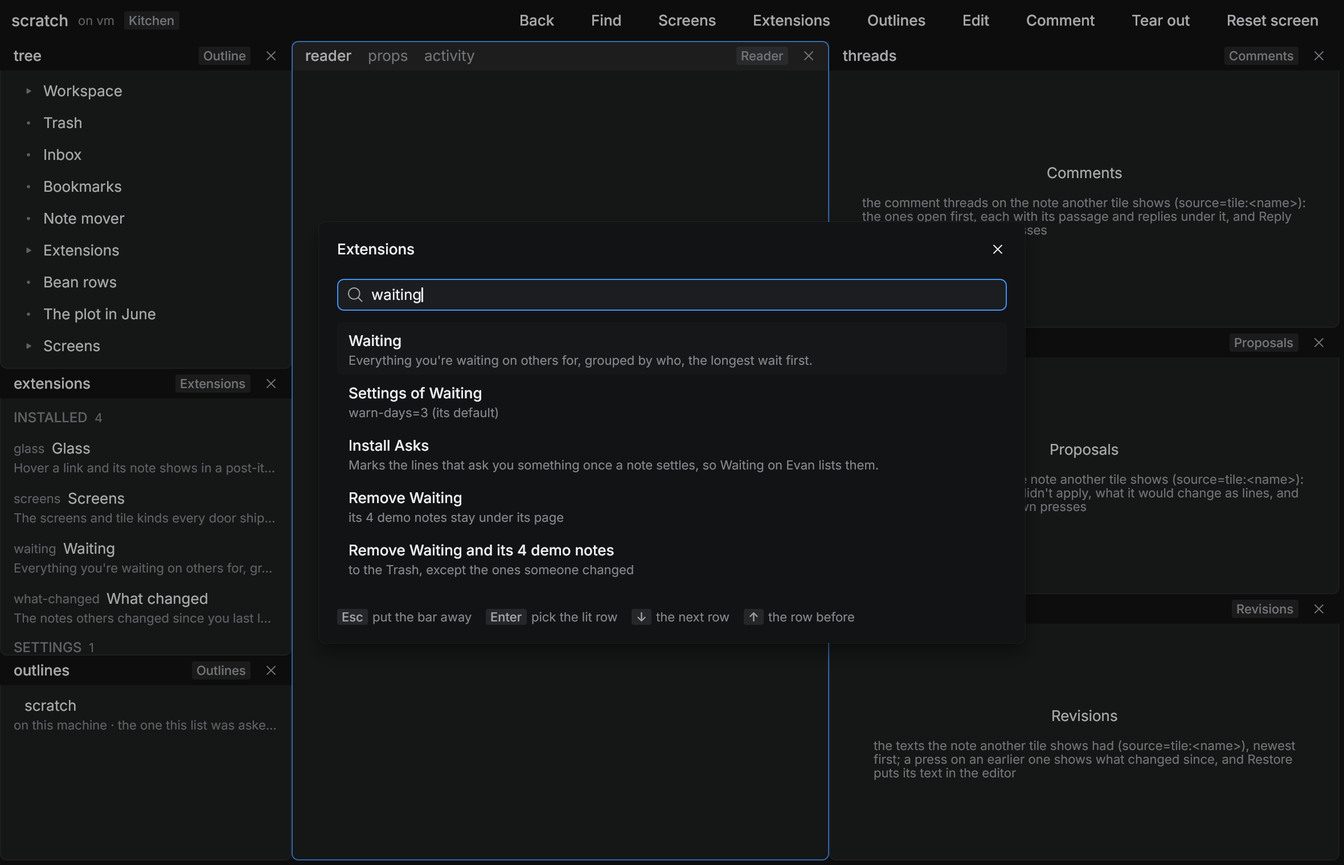
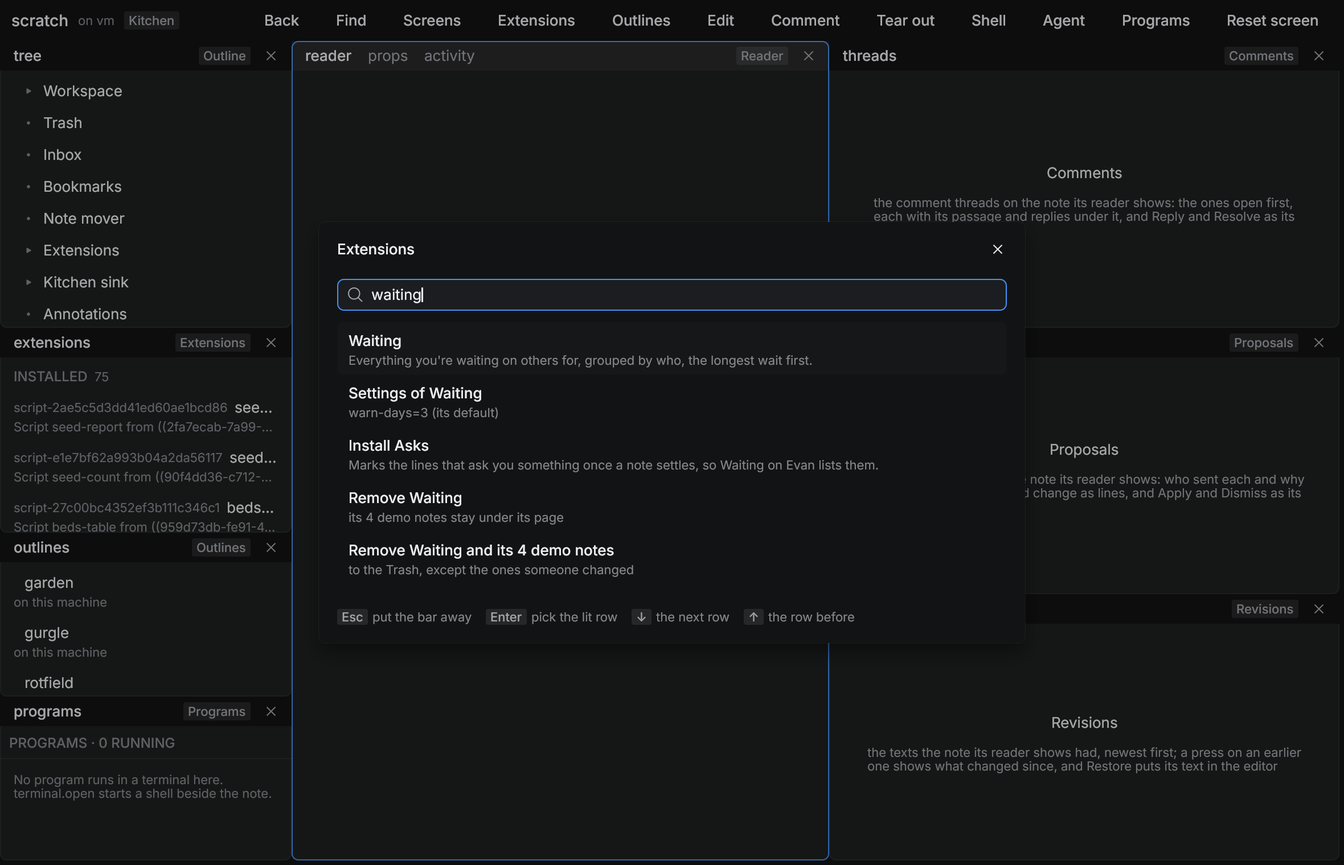
native H3: one owner each, the docs, and the pictures an empty tile is in
one_owner.rs holds what H3 added to one place each. DESIGN.md, PROBES.md
(a Mac's title bar: read from Rune, run on a headless runtime, not on a
Mac) and the README say it. The README's dark pictures that show an empty
tile are shot again (caret, table, extensions, settings), and a headings
scene shows a styled heading drawn without its properties beside the
Properties tile.

Claude-Session: https://claude.ai/code/session_01YahWSsU53UQFjh3cbq4VFn

diff --git a/packages/native/scenes/parts.seed.ts b/packages/native/scenes/parts.seed.ts
@@ -1,4 +1,5 @@
-// The made-up note the `parts` scene opens: figures, a box, a live list and two buttons, written into a scratch
+// The made-up notes the `parts`, `links`, `draft`, `settings` and `headings` scenes open, the first with figures, a
+// box, a live list and two buttons, written into a scratch
 // outline (never a real one: the socket is a scratch host's, named outright).
 //   bun scenes/parts.seed.ts <a scratch host's socket> <outline>
 import { OutlinerClient } from "../../outliner/src/client";
@@ -8,6 +9,22 @@ if (!socket || !outline) throw new Error("usage: bun scenes/parts.seed.ts <a scr
 const client = new OutlinerClient(socket, 20_000);
 const create = (text: string, parentId?: string) => client.request<{ id: string }>({ action: "create", outline, text, author: "user", ...(parentId ? { parentId } : {}) });
 
+const HEADINGS = [
+  "Hazel fence plan [type::plan] [season::spring] [plot::north] [soil::clay] [water::butt] [keeper::Ada] [paths::bark] [fence::hazel]",
+  "Fence style [heading-style::plot] [heading-pattern::dots] [heading-rows::2]",
+  "",
+  "## Beds [heading::plot]",
+  "Four beds, the cold frame first. The peas are due [due::friday].",
+  "",
+  "## Sowing [heading::plot] [heading-tone::amber]",
+  "- Peas in March",
+  "- Beans in May",
+  "",
+  "--- [rule::fade]",
+  "",
+  "### Paths [who::Bram]",
+  "Bark on the long path, grass between the beds.",
+];
 const plan = await create([
   "Bed plan [type::plan] [season::spring]",
   "Four beds this year. The cold frame goes in first.",
@@ -65,5 +82,9 @@ const sent = (days: number) => new Date(Date.now() - days * 86_400_000).toISOStr
 for (const [title, who, days] of [["Jars for the cellar", "Ada: which shelf do the jars go on?", 5], ["Seed swap", "Ada: are the broad beans still spare?", 2], ["The loan of the rotavator", "Bram: is Saturday still good?", 1]] as const) {
   await create(`${title} [type::outbox-item] [outbox::waiting] [waiting-on::${who}] [sent::${sent(days)}]`);
 }
+// The note the `headings` scene opens: headings and a rule that name a style, and a line that declares one. A page
+// that draws no style still leaves out the properties that style a line (the service's prose is without them); what
+// says something stays, here and in the Properties tile beside the reader.
+await create(HEADINGS.join("\n"));
 console.log(plan.id);
 process.exit(0);

diff --git a/packages/native/src/tests/one_owner.rs b/packages/native/src/tests/one_owner.rs
@@ -710,3 +710,26 @@ fn a_terminal_s_deciders_each_have_one_place() {
     let store = sources().into_iter().find(|(path, _)| path == "store.rs").expect("store.rs").1;
     assert!(store.contains("programs: Programs,"), "the run's programs are the hub's, so a tile torn into another window keeps its program");
 }
+
+/// Wave H3, small things: each has one place.
+/// - How long something said stays up is one port of outline-core's rule (`actions::stays`), and the status line
+///   goes by the clock in one place (`App::fade`); a notice is put away by the dispatcher alone, beside the person's
+///   own dismiss.
+/// - What the window's own buttons take of the toolbar is asked of Rune once, in the shell, and the frame a window
+///   asks for is said once.
+/// - What an empty tile offers to do next is worded by the action rows through one builder (`tiles::way`).
+/// - Which decoded pictures are kept is the picture cache's own.
+#[test]
+fn what_h3_added_has_one_owner_each() {
+    none("the time something said stays up written outside `actions::stays`", ["30_000", "from_millis(4000", "from_secs(4)"].iter().flat_map(|number| strays(number, |path| path == "actions/app.rs")).collect());
+    none("what the status line says taken away outside `App::fade`", strays("agent_said = None", |path| path == "actions/app.rs"));
+    none("since when something has been said kept outside the App", strays("st.heard.", |path| path == "actions/app.rs"));
+    none("a read notice put away outside the dispatcher", strays(".put_away(", |path| path == "actions/mod.rs" || path == "actions/app.rs"));
+    none("the window's own buttons asked about outside the shell", strays("titlebar_inset()", |path| path == "shell.rs"));
+    none("a window's frame said outside `shell::frame`", strays("Chrome", |path| path == "shell.rs"));
+    let framed: Vec<String> = strays(".chrome(", |_| false).into_iter().map(|found| found.split(':').next().unwrap_or_default().to_string()).collect();
+    assert_eq!(framed, ["main.rs", "shell.rs"], "every window of the run is given the one frame: the first, and one torn out");
+    // What to do next in an empty tile is a line its action's row words, built by one builder: no drawer keys one.
+    none("a way to fill an empty tile built by a drawer: `tiles::way` builds it from the action's row", strays("empty/find", |_| false));
+    none("which pictures are kept decided outside the picture cache", ["pictures.held", ".behind"].iter().flat_map(|word| strays(word, |path| path == "tiles/picture.rs")).collect());
+}

diff --git a/packages/native/README.md b/packages/native/README.md
@@ -19,6 +19,7 @@ ships no screen and no tile kind of its own: the ones every door ships are one e
 ![A screen saved as a note with keys of its own: the list of the keys beside its reader puts that screen's first, dark](docs/screenkeys-dark.png)
 ![The library: the components under their groups, one picked with its own example as written and as drawn, dark](docs/library-dark.png)
 
+![A note whose headings and rule name a style: drawn without the properties that style a line, the ones that say something kept; its properties beside it, a table whose rows scroll under a line below its column header, dark](docs/headings-dark.png)
 ![A note with a query-backed component, dark](docs/note-dark.png)
 ![Live figures answered by the service, dark](docs/figures-dark.png)
 ![A query with the facets its matches carry, dark](docs/query-dark.png)
@@ -54,7 +55,7 @@ Linux builds need `libxkbcommon-dev` and `libwayland-dev`; a machine with no GPU
 | Do | How |
 |---|---|
 | Walk the outline | The tree tile: a press opens a note, a press on the open note folds or unfolds it. A row has a fold's mark when notes are under it, and only then: a note with nothing under it but comments or an edit proposed beside it has none (they are in the Comments and Proposals tiles) |
-| Start from nothing | A reader shows the note it was told and no other. One told none is empty: it says what it is, in its kind's own words, with Find and New note under them |
+| Start from nothing | A reader shows the note it was told and no other. One told none is empty: it says what it is, in its kind's own words (written for the person at the tile), and what to do next under them, a line each: Find and New note as buttons, each with its key and what the key does, read from the action's own row |
 | Open a screen | The bar's Screens (`bar.open scope=screens`, the toolbar's Screens): the desk, the navigator, the board, last callers, who's online, the keys, the library, the kitchen sink (this window's parts on one screen), and every screen note the outline has. A row opens one (`screen.open name=`; `target=` is what it opens on, where its spec takes one) |
 | Read a board | The board's lanes: the matches of a question, a lane a value of the property the screen names. `list.group by=<any property>` groups them by another, `list.layout layout=rows\|table\|lanes` arranges them another way (a table whose tile names no `columns` shows the title and the properties its rows carry), `list.sort by=<any property>` orders them; a card pressed opens beside |
 | Narrow by what notes carry | The navigator: a facet's row, or a chip on any list, narrows that list's question (`facets.set key= value=`); the Matches tile beside it lists what is left, and the chip that says what it is narrowed by takes it back |
@@ -90,6 +91,7 @@ Linux builds need `libxkbcommon-dev` and `libwayland-dev`; a machine with no GPU
 | Jump between agents | The bar's Programs (`bar.open scope=programs`, the kitchen's Programs and its tile): the programs this window runs, in a tile or not, each with what it reports of itself; a row takes the keys to its program (`terminal.jump key=`), in a tile beside the note when it has none. What herdr-core runs that this window never started is listed after them in the tile, and is never ended, typed into or attached from here |
 | Scroll, paste and copy in a terminal | `shift+pageup` and `shift+pagedown` or the wheel move through what scrolled off (`terminal.scroll`); `mod+shift+v` pastes the clipboard as a paste (`terminal.paste`); words are selected with the mouse, as in a note, and copied with ⌘C on a Mac (elsewhere step out with `ctrl+]` first: Ctrl+C in a program is the program's) |
 | See it change | An edit from the door, an agent or another machine redraws what's open |
+| Read what an agent did, and move on | The toolbar's status line names the agent and the act, or why it was refused, for as long as it takes to read (4 s at least, about 14 characters a second, 30 s at most: the door's rule for its status bar), then it goes. A refusal of your own is the notice under the toolbar: it stays until you have had time to read it and do something else, or dismiss it; the clock alone takes no notice away |
 
 **The keys are the actions' own.** Each action's row says its chords (`src/actions/*.rs`), and the key table, the
 keycap on a button, the bar's rows and `actions` over the control socket all read the row. The defaults:
@@ -265,6 +267,10 @@ src/ (Rust, Rune)                                      the outline host
   `tiles.view` and builds the primitive it answers through the one registry, so a list in it is the list
   drawer's. Its settings are a form drawn from its schema as `extensions.list` says it; what is typed is sent as
   the value its field's type says, and the service checks it. Nothing in the window names an extension.
+- **A property that styles a line is no content.** A heading's `[heading::band]` and its own fields, a line that
+  declares a style, a rule's `[rule::fade]` and any `style.*` are left out of the prose the service serves
+  (outline-core's `unstyledLines`, by the readers the door's own reader asks); a property that says something
+  stays the note's words. The window reads no Blockdown to do it.
 - **The service answers a note whole** (`notes.page`, outline-core's `note-page.ts`): title, chips, properties, the
   body as parts, and the notes above, under and linking to it. It walks the note as a published page does (one
   finder says which component a line starts, outline-core's `componentAt`) and asks the same questions; where a
@@ -323,8 +329,17 @@ src/ (Rust, Rune)                                      the outline host
     say so on their rows, and the dispatcher refuses an agent. `draft.patch` is the way in for everybody else.
 - **Pictures are parts too.** The page names each picture (its path, or an svg fence's own text) and how the note
   lays it out; the window reads a file's bytes with `media.read`, hands them to Rune's image cache to decode off
-  the UI thread, and keeps only those of the pages its readers show. One the host can't read says so, in the host's words, where it
-  would be.
+  the UI thread, and keeps those of the pages its readers show, with the last few they showed still decoded behind
+  them (eight at most, and no more than 128 MiB of pixels: a note come back to draws its photos at once). One the
+  host can't read says so, in the host's words, where it would be.
+- **What is said goes when it has been read** (`App::fade`, `App::read`; `actions::stays` is outline-core's
+  `staysMs` by port, the rule the door's status bar keeps a message by). The status line is news and goes by the
+  clock. A notice is the person's: a problem's goes with their next act once it has been up long enough to read,
+  unless that act says something in its place.
+- **The toolbar starts past the window's own buttons** where they sit over it (`shell::toolbar_lead`, from Rune's
+  `Cx::titlebar_inset`): on a Mac the content fills the window under a clear title bar, and the outline's name is
+  drawn after the traffic lights. In full screen, and on every other platform, it starts at the edge. Each window's
+  frame is said once (`shell::frame`).
 - **What is about a note is a list that follows a reader** (`extensions/screens`: the `threads`, `proposals` and
   `revisions` kinds, each the list drawer over a producer of `lists.read`, with `source: tile:<reader>` and
   `subject: follows`, as the links tile has). The window has no code for any of them. The desk holds the three as
@@ -361,7 +376,10 @@ src/ (Rust, Rune)                                      the outline host
 - **A reader shows the note it was told, and no other** (`App::note_of`). One told none shows none: the layout's
   rules read that (`Facts.showing`) and the tile draws that, so a close's heir and an open's landing replace
   nothing that was on screen. What an empty tile says is its kind's own row (`tiles::waiting`: the name and the
-  description the service serves for the kind), for a reader and for a list about a note nobody shows alike; a
+  description the service serves for the kind, which is written for the person at the tile; how a screen writes a
+  tile of the kind is the extension's page to say), for a reader and for a list about a note nobody shows alike,
+  and what to do next is a line an act (`tiles::way`: the button its action's row labels, the key the table binds
+  and what that key does, in the row's words); a
   window opens on its screen with its reader empty, and the arrangement kept between runs brings back what each
   reader showed.
 - **The keys screen has no table of its own.** The window hands `lists.read from=actions` its action rows (where a
@@ -515,6 +533,9 @@ model names no Rune type). `owners.rs`, `sweep2.rs` and `sweep3.rs` hold the sam
 reader's note goes to its heir, Return under a row that would write nothing, a refusal names an action here;
 F2's are in `lists.rs` and `shell.rs`: a fold's mark only on a row the service says opens onto notes, and a reader
 told no note drawn as empty in its kind's own words), and
+`small.rs` has what the first run by hand met (wave H3: the status line letting an agent's refusal go once it has
+been read, a refusal's notice going with the person's next act, the toolbar starting past a Mac's window buttons,
+a table's rows scrolling under a line below its column header, an empty reader's words and ways from the rows), and
 `review.rs` has what is about a note (the tiles
 that follow the reader, a comment written on words selected in the window across a link, bold text and two
 paragraphs, words drawn twice told apart by their part, a reply and a thread resolved by the
@@ -608,6 +629,7 @@ outline's first note by picking the tree's first row: a window opens with its re
 `terminal` (a shell and an agent beside `parts.seed.ts`'s note, their programs a made-up shell: run it with `--programs scenes/terminal.programs.json` after the second `--`, the script a scripted host plays, since a headless render has no pty to wait on),
 `heir` (two readers `about.seed.ts` saves as a screen, the first's opens wired to the second: the first is closed and its note stays on screen in the second),
 `caret` (the same screen with the seed list opened in the first reader: the way to it unfolds in the tree, the bean rows beside it have no fold's mark, and the second reader, told no note, is empty),
+`headings` (a note `parts.seed.ts` writes: headings and a rule that name a style and a line that declares one, drawn without the properties that style a line, with its properties listed beside it),
 `ways` (a reader a block is being written in is asked to close: the layout's refusal is the notice, its way out said by the key this window binds; an agent's resize under the typing is told the act that gets the person's attention here; `parts.seed.ts` writes its note),
 `extensions` (the kitchen screen with the bar on the extensions), `settings`
 (Waiting's screen and its settings form), `window` (a tile torn out: run it with `--act scenes/window.act --torn
@@ -652,6 +674,9 @@ toolbar button is
   a drag shows no hint of where a tile will drop.
 - A press inside a tile's body doesn't give it the keys by itself (its title, its tab or `tile.focus` does): Rune's
   focus isn't reconciled with the layout's yet (PROBES.md §1).
+- On a Mac: the toolbar starting past the traffic lights was built from Rune's source and run here by telling a
+  headless runtime the inset a Mac's window reports; it was not run on a Mac. The toolbar is no drag region of its
+  own (AppKit's title bar band moves the window), and a torn-out window has no toolbar to inset.
 - Windows: a torn-out window isn't opened again at the next start (its unsaved text is: the first window brings
   it back), has no toolbar of its own (the bar is its `mod+k`), and can't be dropped back into the window it came
   from; a tab dragged out by the pointer doesn't tear (the action and its key do).
@@ -687,7 +712,8 @@ toolbar button is
   it; one whose look word isn't read says so and still runs; a button inside a list item draws as a part between the items. `docs/prim-coverage.md` has each.
 - A list in a note has no filter, selection or preview pane, and its lanes show eight rows each and scroll the
   rest; a row that copies or inserts is words, in a note and in a list tile alike. A heading
-  style's glyph tracks aren't drawn.
+  style's band, glyph track, tone and lettering aren't drawn: a heading that names a style is drawn as a plain
+  heading, without the properties that style it (the service says no style a page could draw yet).
 - Pictures: text inside an SVG isn't drawn (Rune rasterises without fonts); a header image crops to its middle
   (`hero-focus`, `blur`, `tint`, `fade` and a title over it aren't read); artifacts and video stay as written;
   a view's card covers and pictures in properties aren't shown.

diff --git a/packages/native/docs/DESIGN.md b/packages/native/docs/DESIGN.md
@@ -4,7 +4,7 @@
 
 **The claim, bounded.** A new screen, or a tile over an existing source, is a note. A new list source is one host producer, written once for every client. A new drawer is Rust, and there are four.
 
-**Basis.** The maps and judges, plus spot reads of `desk/layout.ts:1036-1045`, `desk/tiles.ts`, `desk/screen-specs.ts`, `surface/keymap.ts` and the Waiting manifest. W0, W1, W2, the first hydra sweep, W3, W4, the second hydra sweep, W5, W6, W7, the third hydra sweep, F1 (a quote as drawn), F2 (a caret that opens something), F3 (ways out) and W8 (the terminal) are built: [PROBES.md](PROBES.md) has what the probes found, and where this page says more than the code does, the line says "not built yet".
+**Basis.** The maps and judges, plus spot reads of `desk/layout.ts:1036-1045`, `desk/tiles.ts`, `desk/screen-specs.ts`, `surface/keymap.ts` and the Waiting manifest. W0, W1, W2, the first hydra sweep, W3, W4, the second hydra sweep, W5, W6, W7, the third hydra sweep, F1 (a quote as drawn), F2 (a caret that opens something), F3 (ways out), W8 (the terminal) and H3 (small things from the first run by hand) are built: [PROBES.md](PROBES.md) has what the probes found, and where this page says more than the code does, the line says "not built yet".
 
 ## 1. Primitives
 
@@ -177,6 +177,12 @@ an object, a typed argument) is the block's own ```json fence. `screens.save` is
 | Which reader a press in a list acts in | `App::act_from` in the dispatcher, asking `App::home_of`. A press that is about one note names it (the service writes `revision.restore of=<id> revision=<n>`), and is refused in a reader that shows another |
 | Which row of a list is open | the tile's own state (`TileUi.unfolded`), handed to the service as `open`; `list.pick` folds a row that only folds, in a list whose source reads `open` |
 | What the keys screen lists | the action rows (`actions::rows`, handed to `lists.read from=actions` in `App::ask_of`): the key table (`keys.rs`) reads the same rows. The open screen's own keys are listed first: the asker names its screen (`screen`), and the producer reads that screen's `keys` from `screens.list`, the spec the key table reads. Not built yet: `keybindings.json`, in either |
+| How long something said stays up | outline-core's `staysMs` (`reading-time.ts`): the door's status bar reads its numbers from it, and the window ports it once (`actions::stays`, held by `core-contract.json`'s `stays`). The status line goes by the clock in `App::fade`; a problem's notice is put away by the dispatcher with the person's next act once it has been up that long (`App::read`), and by the clock never |
+| What a refusal an agent met says to the person (the door) | the door's one sayer (`surface/way-out.ts`): it keeps what it told an agent with the refusal it was said from, and whatever shows that to the person says it again for them (`saidToPerson`: the status bar's flash, an open that landed elsewhere). A way that names a container by id, and no place for the keys, is said by the act that names it with the key beside it |
+| Which properties of a line are no content | outline-core's `unstyledLines` (`heading-styles.ts`: a heading's and a rule's style and fields, a line that declares a style, any `style.*`), asked by `proseMarkdown` for `notes.page`; whether dashes under a line are a rule is `underlinesLineAbove`, which the door's reader asks too. Not built: the style a page could draw (band, tone, letters) is not served |
+| What an empty tile says, and offers | its kind's row (the description is written for the person at the tile; `tiles::waiting`), and a line an act from the action's own row (`tiles::way`: label, key, what the key does) |
+| What the window's own buttons take of the toolbar | Rune (`Cx::titlebar_inset`), asked in `shell.rs` alone (`toolbar_lead`); the frame a window asks for is `shell::frame` |
+| Which decoded pictures are kept | `tiles::picture::Pictures::keep`: those the pages show, and the last eight let go (128 MiB of pixels at most) |
 | Meaning of notes | the service |
 
 ## 5. Agents, tests, headless
@@ -240,4 +246,5 @@ Wave PRs merge into the feature branch `claude/adoring-rubin-fcfz04` (PR 1436), 
 | **W7 Extensions and outlines** | …installs Waiting from the bar, uses, configures and uninstalls it, switches outline, and tears a tab into a second window. | W3, W4 | `ext.rs`, `actions/ext.rs`, `actions/outline.rs`, `actions/window.rs`, `tiles/rendered.rs`, `store.rs` (the hub), `shell.rs` windows; outliner `list-extensions.ts`, `tile-view.ts`, `outline-links.ts`; the `kitchen` screen | nothing | install, use, configure, uninstall on the stand-in and on a scratch host; two links in one Store; switch outline and back with a draft held; a second window drawn headless; the control socket naming a window | W5, W6, W8 |
 | **F1 Quote as drawn** | …selects words in a reader that cross a link, bold text or two paragraphs, comments on them, and the comment lands on that passage. | W6 | outline-core `drawn-passage.ts`, `fixtures/core-contract.json` (`quoted`); outliner `block-comments.ts`, `publish-passage.ts`; `draft.rs` (`Quoted`), `actions/review.rs`, `tiles/page.rs`, `parts.rs`; the stand-in host in `tests/support.rs` | the published page's own reading of a block as drawn (`publish-passage.ts`'s `drawnText`), the stand-in's "any quote lands" | the mapping in outline-core; the service on a scratch host; the window selecting across a link, bold and two paragraphs, live; the stand-in refusing what the service refuses | W8 |
 | **W8 Terminal and agents** (as built) | …opens a shell and an agent beside a note, detaches, returns, and jumps between agents from a list. | W2 and W0's measurement | `tiles/pty.rs`, `pty.rs`, `pty/` (`canned.rs`; `moonframe.rs` and `hc.rs` behind the feature), `actions/terminal.rs`, `keys.rs` (the `program` layer), `Cargo.toml` feature; outliner `extensions/terminal/`, `list-programs.ts`, `screens.ts` (`drawnBy`); the kitchen's programs tile and buttons | nothing | `takes_keys` whereabouts and the actor rule while the person types; a scripted host; a real pty running a script; herdr-core's protocol to a stand-in over two launches (`hc` itself not run), and two that leave no terminal tile; tmux on a server of the test's own, asked by no frame; the list live against the service; redraw cost recorded | W3 to W7 |
+| **H3 Small things** (as built) | Evan uses native and the door after this merges and the small wrong things he and the review saw are right. | W8, F3 | native `shell.rs` (`toolbar_lead`, `frame`), `actions/app.rs` (`fade`, `read`, `stays`), `actions/mod.rs`, `tiles/mod.rs` (`way`), `tiles/list.rs`, `tiles/picture.rs`; outline-core `reading-time.ts`, `heading-styles.ts` (`unstyledLines`), `note-page.ts`, `drawn-passage.ts` (`quoteReadings`); outliner `query-watches.ts`, `publish-passage.ts`, `extensions/screens/` (descriptions for people); door `surface/way-out.ts` (`saidToPerson`), `desk/layout-refusal.ts` (`containerNamed`), `desk/screen-notes.ts`, `status-log.ts` | the author's syntax in the kinds' descriptions; a pass waiting on an awaited watch | `small.rs`; a slow awaited watch beside a plain one; a quote that starts on a year; a page's headings; the door's flash to the person; a served pinned tile | H1, H2, H4 |
 | **F3 Ways out** (as built) | Evan or an agent is refused by native's layout and the refusal names a way out that exists in this window, in this window's own keys. | sweep 3 | outline-core `way-out.ts`; door `desk/screen-layout.ts`, new `desk/layout-refusal.ts`, `desk/landing.ts`, `whereabouts.ts`, `surface/agent-level.ts`, new `surface/way-out.ts`, `surface/dispatch.ts` (`layoutStanding` hands the layout its sayer), `desk/wkeys.ts` (`wChordOf`); native `layout.rs`, `layout/step.rs`, `layout/placement.rs`, new `layout/memory.rs`, `actions/mod.rs` (`says`), `actions/layout.rs` (`asked`, `layout.get`), `actions/nav.rs`, `keys.rs` (`cap_of`) | every key and action spelled in a layout sentence, both doors (about fifty sites a side); `MARK_THEM` as words; `unlockHow` | contract tables made again (a refusal is `{reason, ways}`); `ways.rs`; the scans in `one_owner.rs` and the door's `one-owner.test.ts`; the door's `way-out.test.ts` (the key follows the keymap) | F1, F2 |

diff --git a/packages/native/docs/PROBES.md b/packages/native/docs/PROBES.md
@@ -25,7 +25,8 @@ Three more things turned up, two of them bugs in the spike. They are reported an
 carried a block editor ([12](#12-the-block-editor-w5)). W7 answered the one about several windows the same way
 ([13](#13-several-windows-w7)). W6 added what a selection in drawn text gives a window, and what a list inside a
 list's row does ([14](#14-selections-and-what-else-w6-met)). W8 added what herdr-core gives a terminal tile, read
-and spoken to a stand-in but never run ([15](#15-herdr-core-w8)).
+and spoken to a stand-in but never run ([15](#15-herdr-core-w8)). H3 added what a Mac's title bar takes of the toolbar, read from Rune and run on
+a headless runtime, not on a Mac ([16](#16-a-macs-title-bar-and-what-else-the-first-run-by-hand-met-h3)).
 
 ## How to run
 
@@ -677,6 +678,24 @@ both put right:
 - **herdr-core's list was empty until a terminal was opened.** The core was first asked inside `open`, so a
   window that returned with every terminal detached listed nothing and refused the jump to what the core kept.
   The first read asks now (`a_window_that_returns_with_no_terminal_tile_lists_what_herdr_core_kept`).
+
+## 16. A Mac's title bar, and what else the first run by hand met (H3)
+
+**Read from Rune's source and run on a headless runtime here; not run on a Mac.**
+
+| Asked | Answer | Evidence |
+|---|---|---|
+| Why was the outline's name under the traffic lights? | **Rune's default frame on macOS fills the window with the content under a clear title bar** (`Chrome::DEFAULT.full_size_content`). Nothing in the window asked how far the buttons reach. | Rune `tooling.rs` (`Chrome`), `window/mac.rs` (`titlebar_inset`) |
+| How does an app learn the inset? | **`Cx::titlebar_inset()`**: points from the window's leading edge to the zoom button's trailing edge, 0 in full screen, in a titled window and on other platforms; the view runs again when it changes. | Rune `runtime/cx.rs`; `the_toolbar_starts_past_the_window_s_own_buttons_where_they_sit_over_it` |
+| Can that be run without a Mac? | **By telling the runtime:** `Runtime::set_titlebar_inset` is what the macOS window calls. 67 points is what a Mac's default buttons report (7, three on a 23 point pitch, the last 14 wide: `Chrome::titlebar_inset`). | the same test |
+| What does a headless render report? | **The frame's own answer on every platform**, so with Rune's default every snapshot would have shown a Mac's inset with no buttons drawn. The frame says `full_size_content` only on macOS (`shell::frame`), and a render here reports none. | `shell::frame`; the test's last line |
+
+- **Not run on a Mac:** the name's place beside real traffic lights, full screen and back, a window torn out, and
+  whether AppKit's title bar band takes a press meant for a toolbar button (Rune has `Chrome::drag_regions` and
+  `El::window_drag` for an app that draws its own bar; not used).
+- **The other thing a first run met that the probes had not:** a headless frame is one moment. What time does (a
+  status line that should go, a notice that should not) is asked of the state with a clock handed in
+  (`App::fade(now)`), never waited for.
 
 ## The contract tables
 
